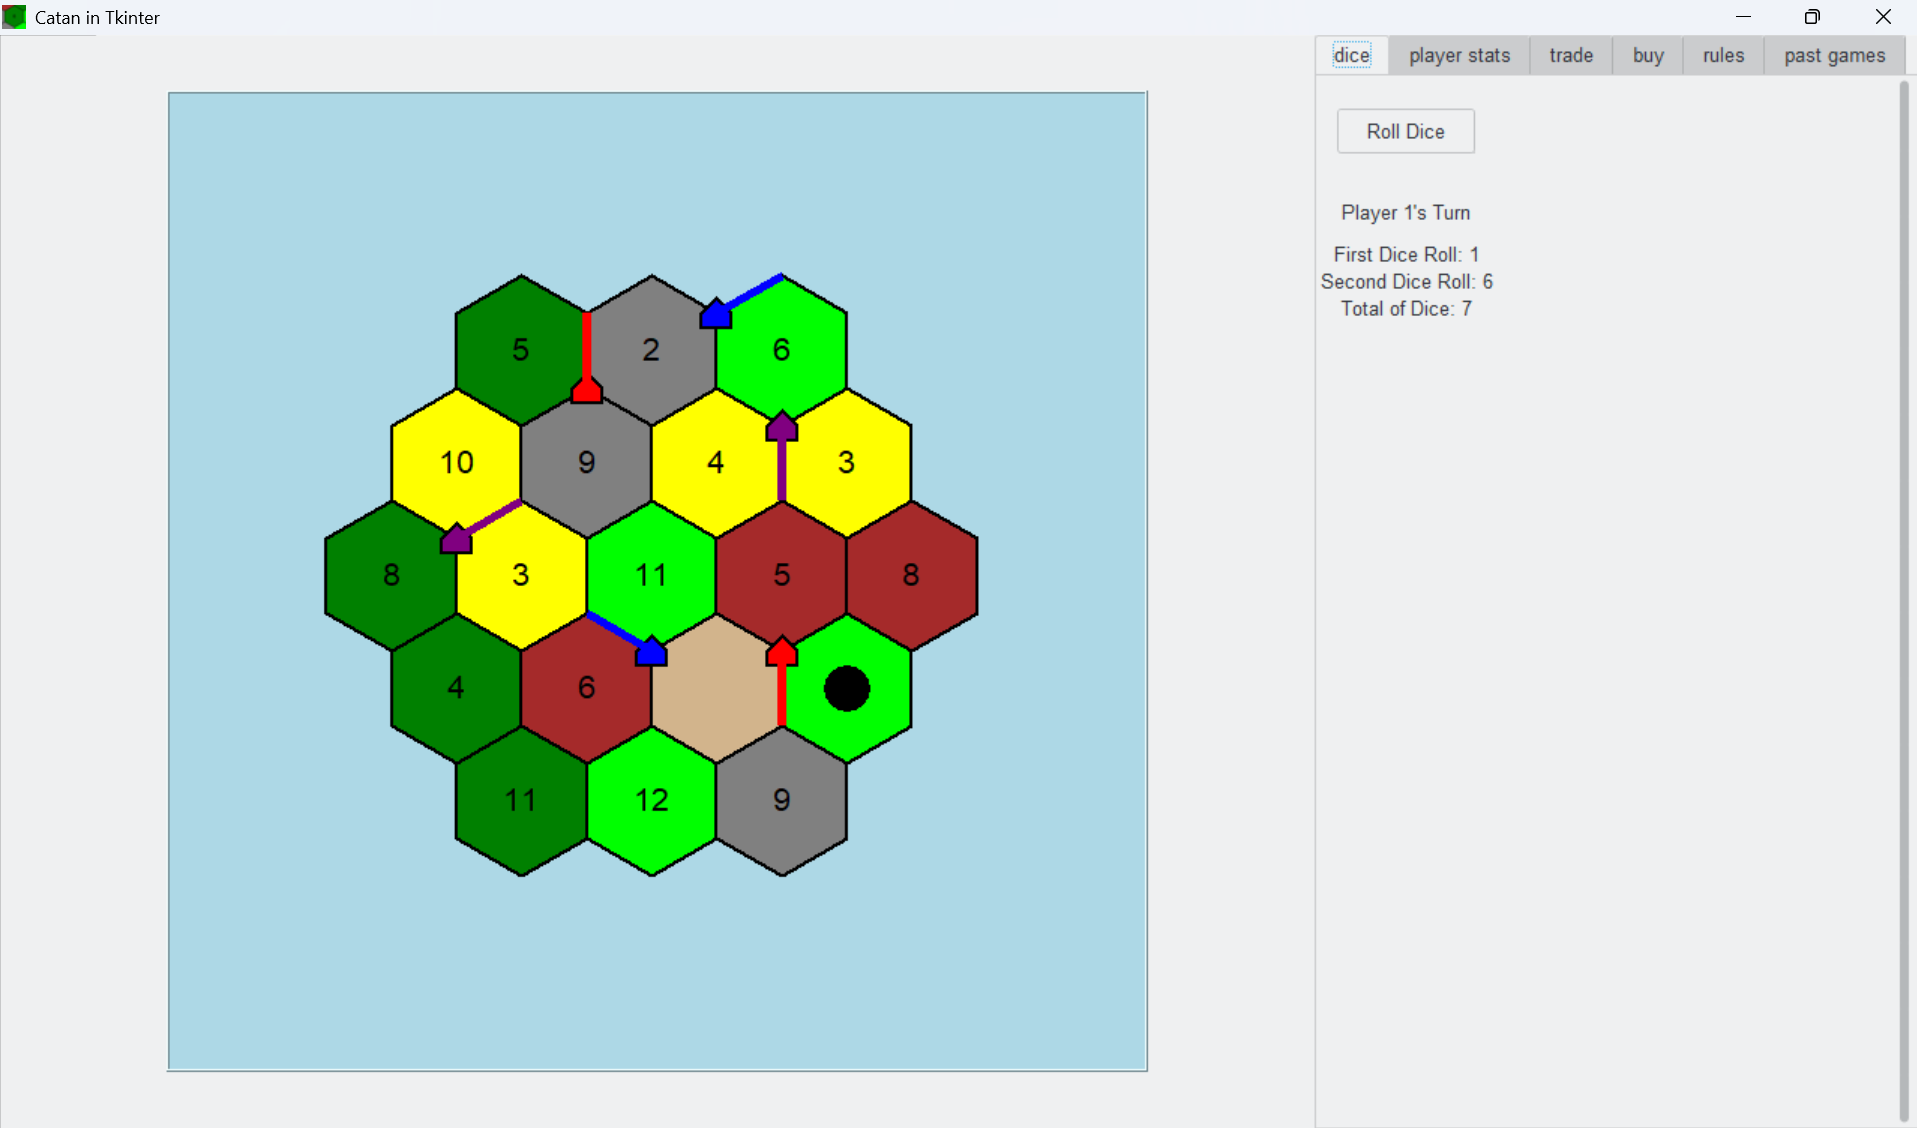
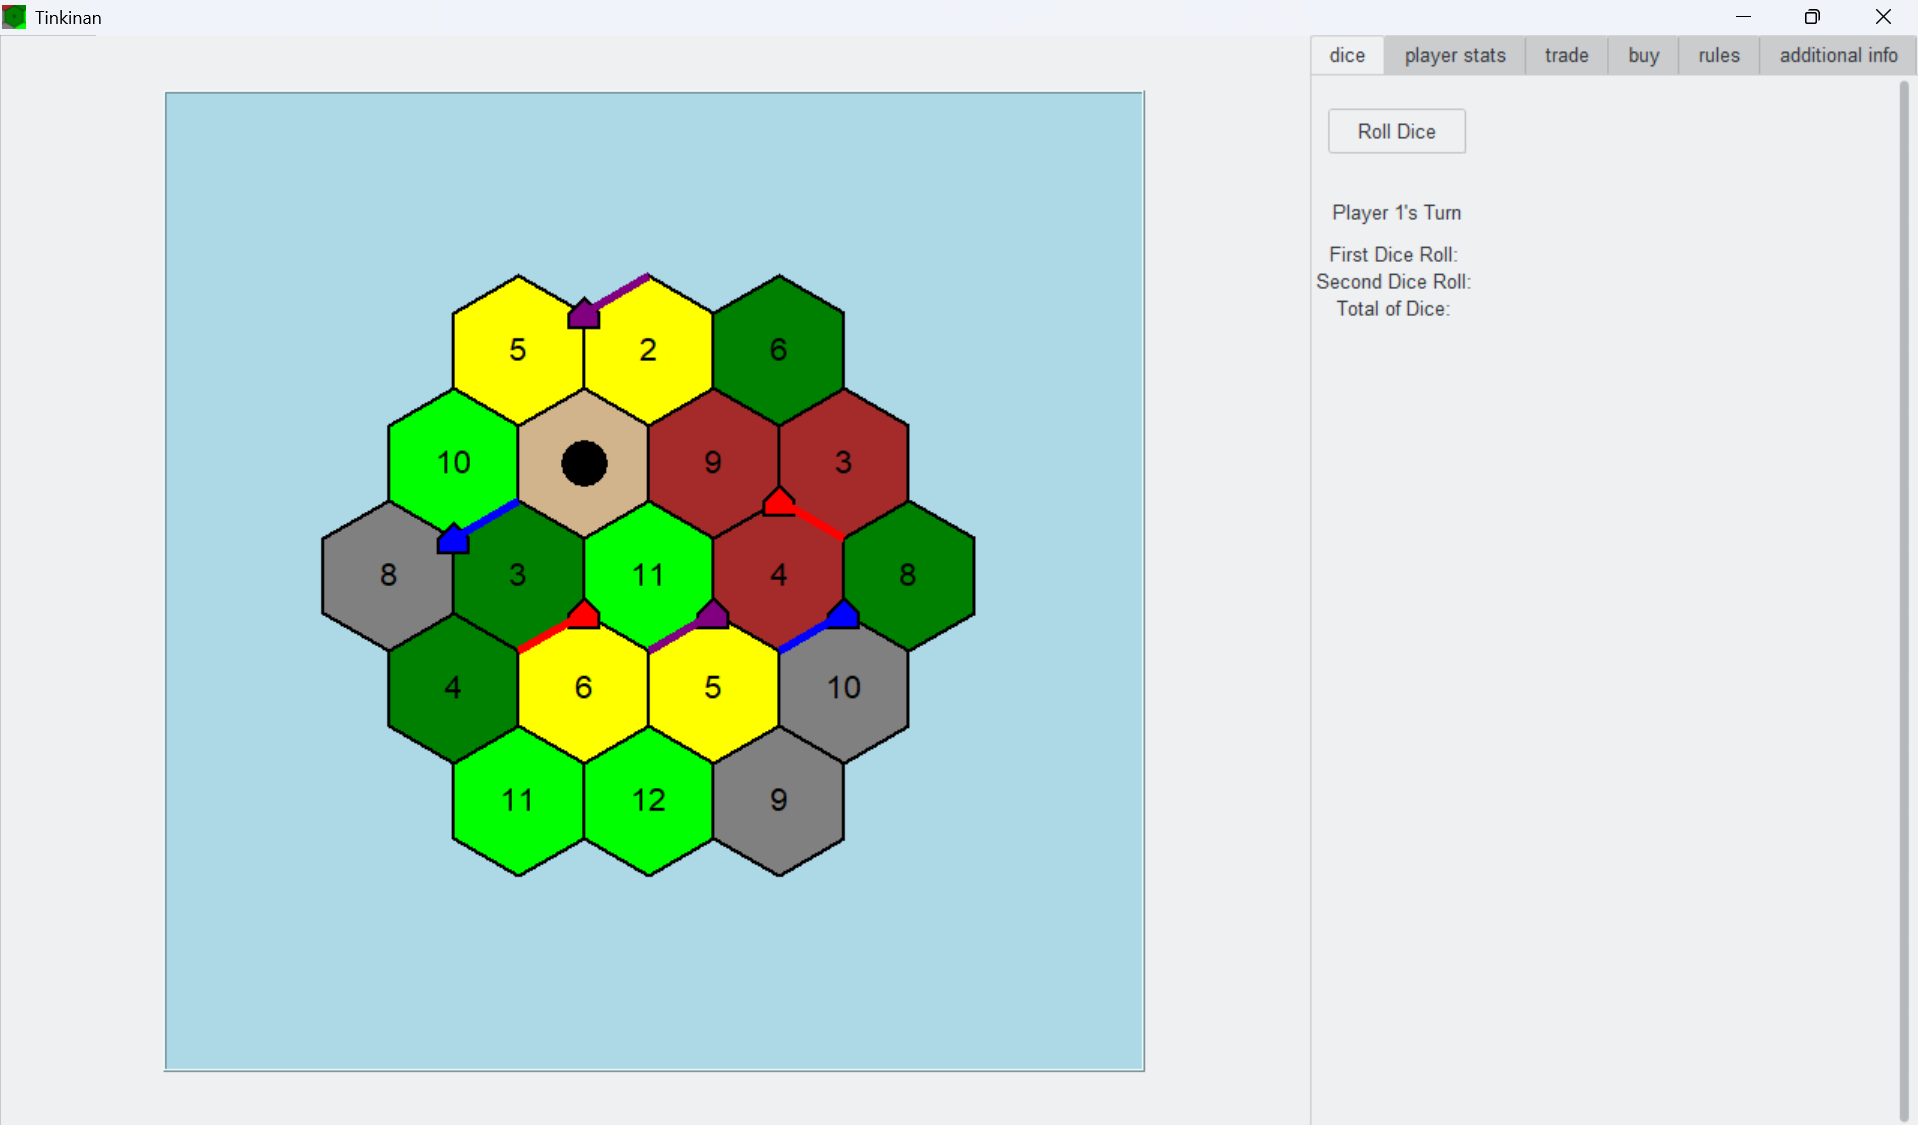
added data saving

diff --git a/src/main.py b/src/main.py
@@ -51,7 +51,7 @@ def main():
     root = ThemedTk(theme="breeze")
     
     root.geometry("1200x800")
-    root.title("Catan in Tkinter")
+    root.title("Tinkinan")
 
     root.iconbitmap("src/hexagon.ico")
 

diff --git a/README.md b/README.md
@@ -15,7 +15,8 @@ A Python-based implementation of the board game Catan (Settlers of Catan) with a
 - 💰 **Resource Discarding**: Automatic resource discard UI when a 7 is rolled (players with 8+ cards must discard half)
 - 📈 **Player Statistics Tab**: Track resources, development cards, victory points, and special achievements
 - 🏆 **Victory Points**: Track player progress toward the 10-point victory goal
-- 💾 **Game Persistence**: Save and load past game data from database
+- 💾 **Game Persistence**: Save and load past game data with full game state restoration
+- 🎯 **Robust State Management**: Graph-based game state for accurate piece placement and resource tracking
 
 ## 📸 Demo
 
